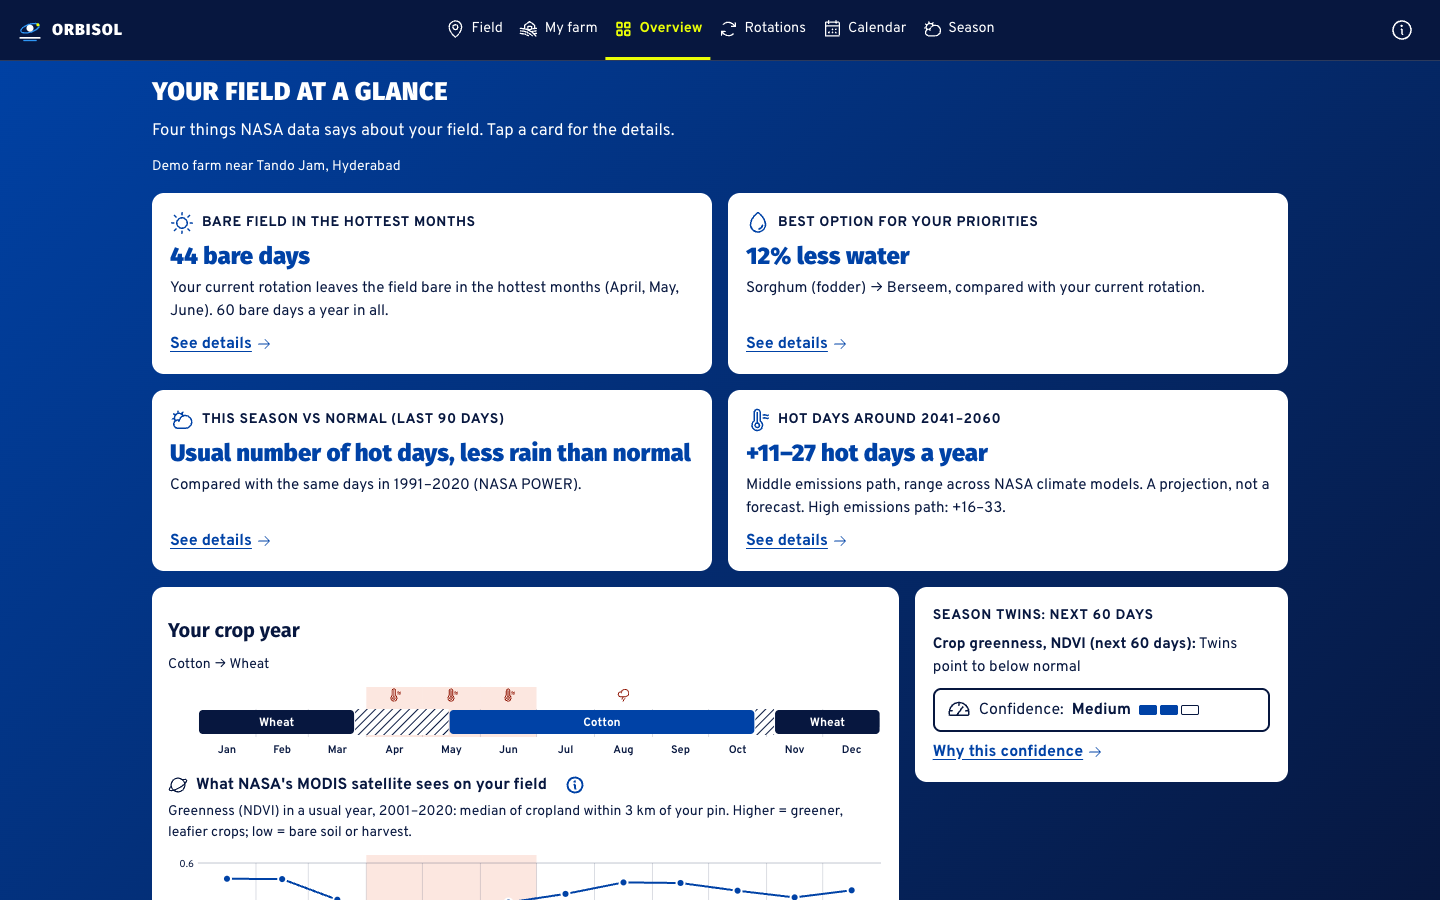
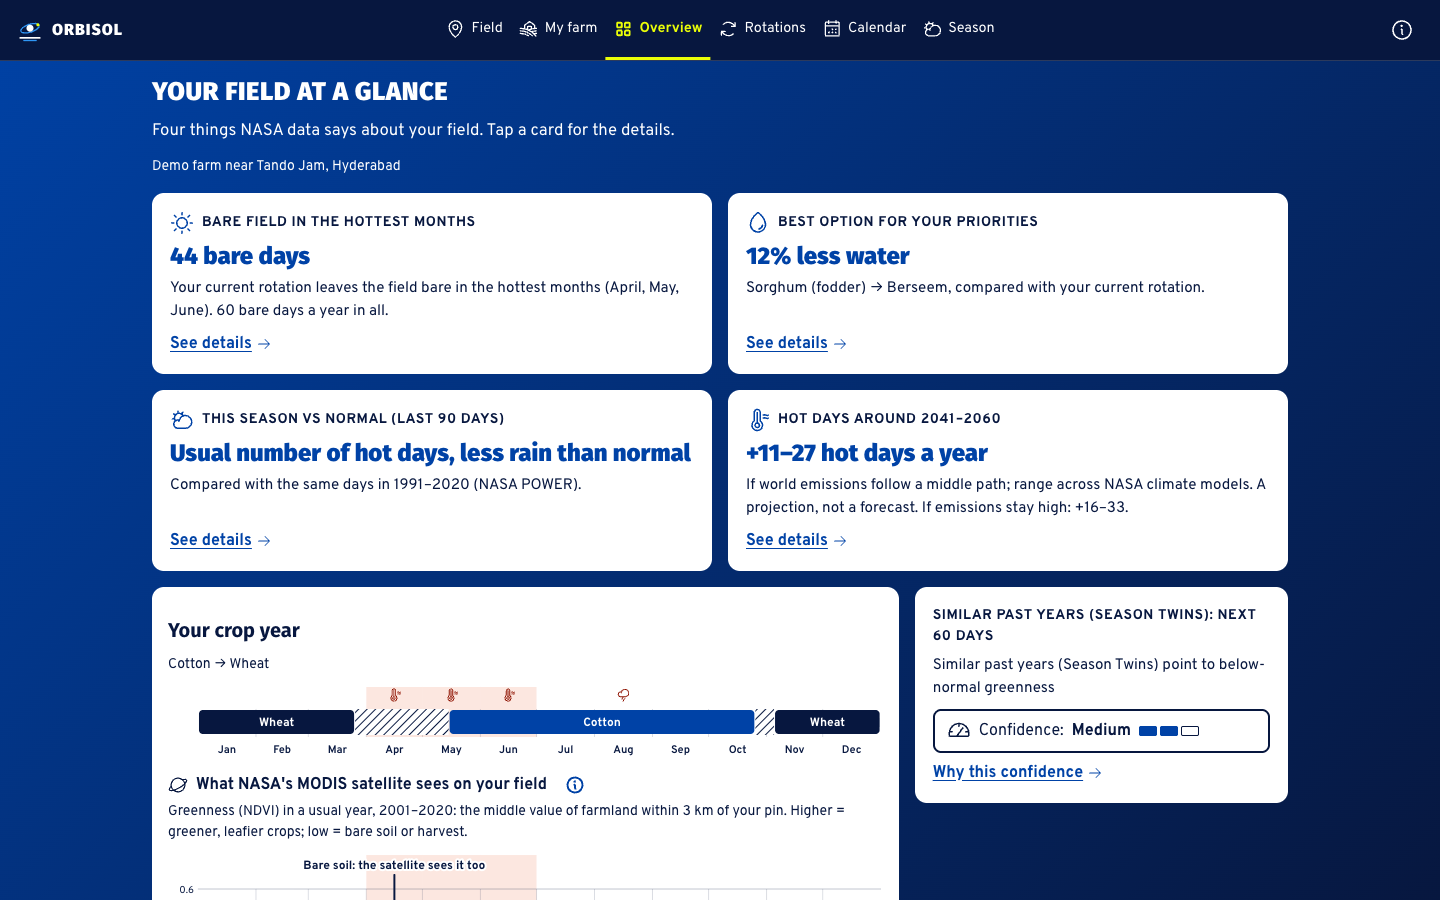
docs: screenshots recaptured after the review fixes; build log

diff --git a/docs/build-log.md b/docs/build-log.md
@@ -139,3 +139,19 @@
 - Full-length captures (whole page, 2x, viewport grown to page height so the header and nav sit in place) of Overview,
   Rotations and Calendar at 360 and 1440 wide: docs/screenshots/*-full@2x.png. Viewport screenshots retaken with the
   new demo numbers.
+
+## 2026-11-15 PKT - Screenshot review fixes (presentation only)
+
+- Field: "Or type coordinates" is a visible toggle (flex summaries had lost their marker; every disclosure now has a
+  chevron); value line + 3-step strip (Pin your field, Tell us how you farm, See your options). Value line says
+  "25 years of NASA satellite data and 30 years of NASA climate records" (MODIS 2001-2025; rotation numbers use NASA
+  POWER 1991-2020, a model, so "satellite" alone would overclaim).
+- My farm desktop: right column stacks on its own (no stretched gaps). Rotations: priorities collapse to one
+  "Ranked for: ... Change" row (first card visible on the first phone screen), full width on desktop.
+- Calendar: NDVI chart annotates its lowest month "Bare soil: the satellite sees it too" with a pointer (only when the
+  farmer's plan has >= 10 bare days that month); month list under "Month-by-month details". Timeline: narrow crop
+  pieces get the legend number.
+- Plain words: nitrogen-adding crop (legume), similar past years (Season Twins) with the outcome named, starting point,
+  emissions paths, salt rating in words, model squares; glossary popovers kept.
+- Verified: nav 6 x 60x60 px at 360, labels on one line; fresh start shows the cotton -> wheat preset selected.
+  Screenshots recaptured (top of screen for all 7 screens + full-length 2x for Overview, Rotations, Calendar).
